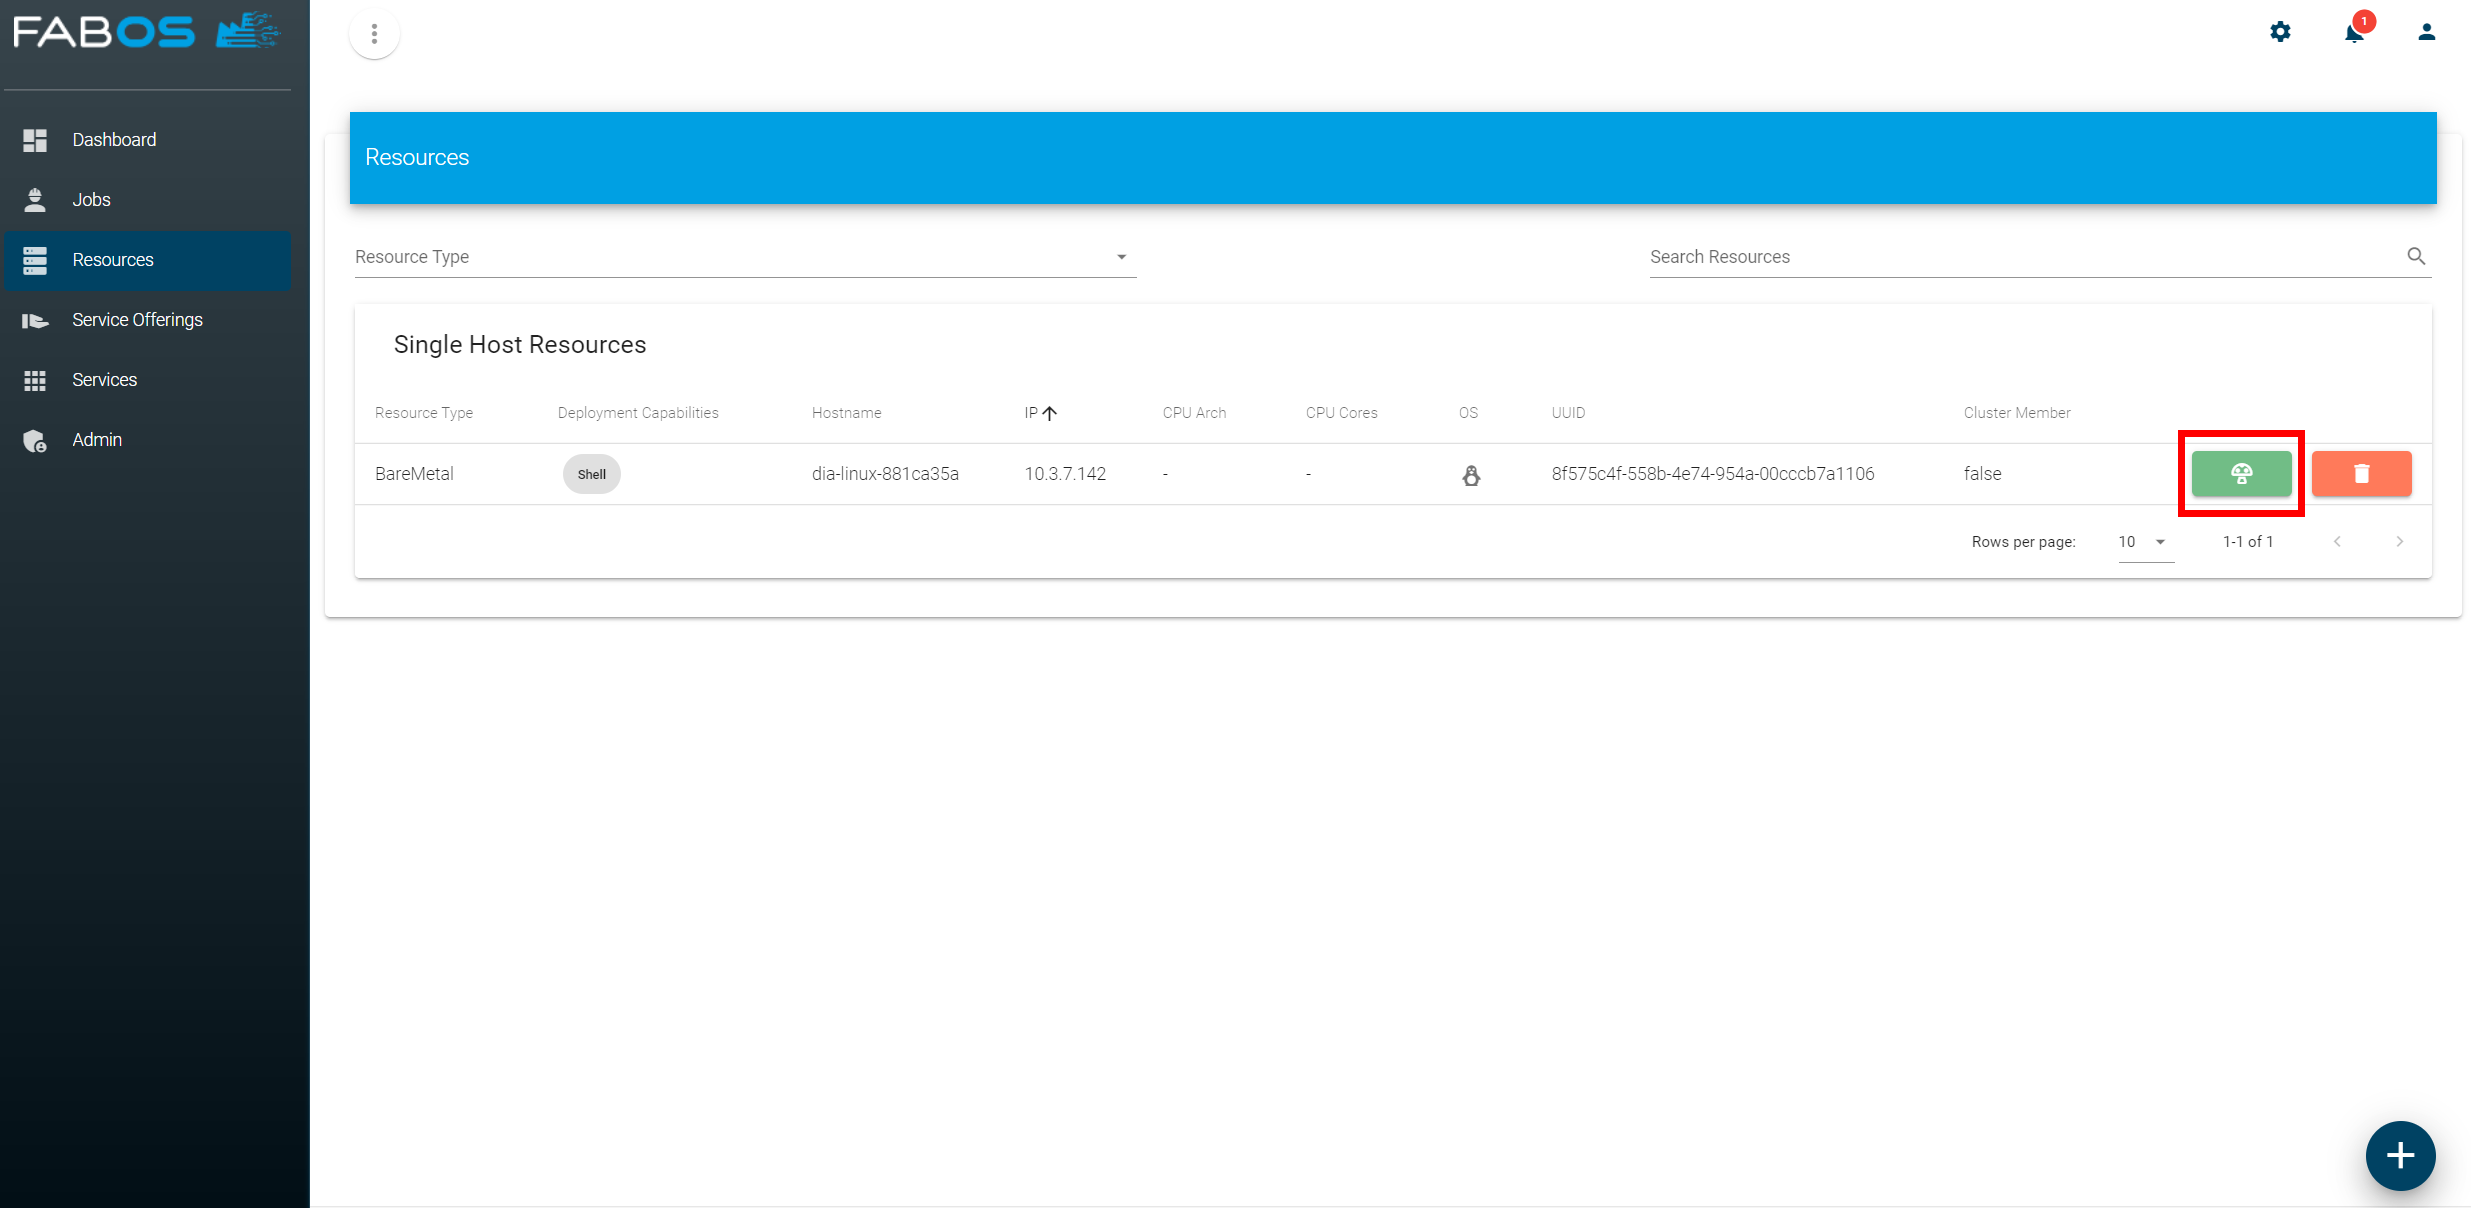
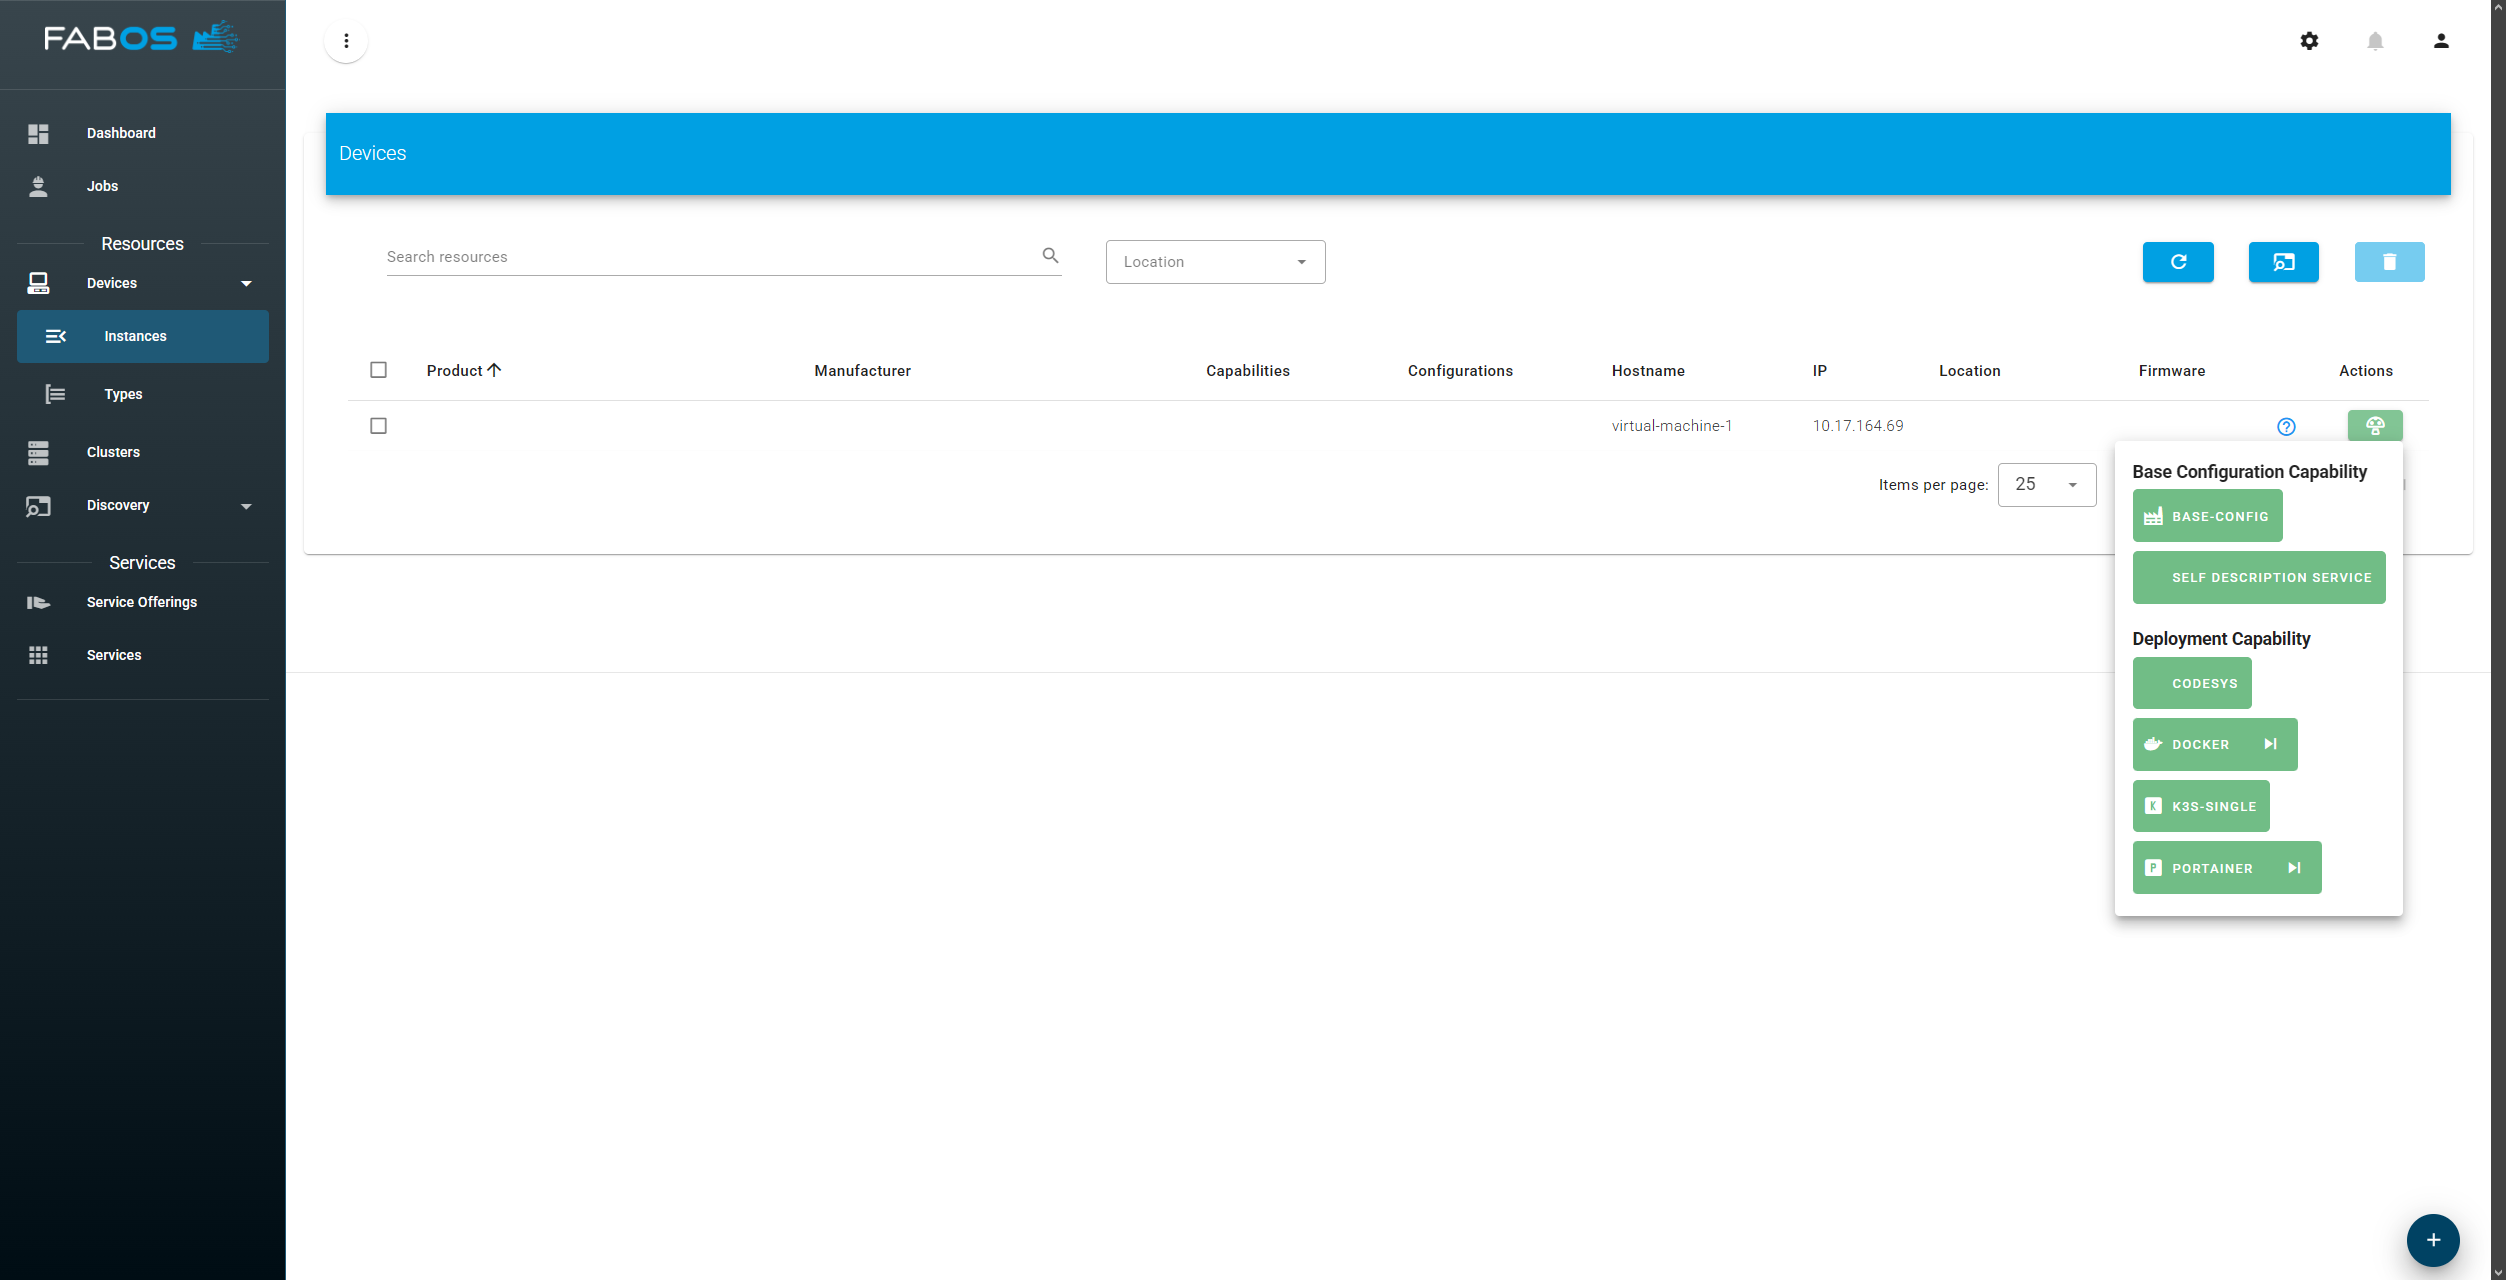
Update first-steps/step2

diff --git a/docs/docs/getting-started/first-steps/step2-install-deployment-capability.md b/docs/docs/getting-started/first-steps/step2-install-deployment-capability.md
@@ -4,12 +4,17 @@ permalink: /docs/getting-started/first-steps/step2/
 
 # Step 2: Install Docker deployment capability
 
-Now that we have added a device, a deployment capability to deploy services needs to be installed. Click on the green button on the right side of your resource and select `DOCKER`:
-![](/img/figures/first-steps/first-steps-step2-install-deployment-capability.png)
+Now that we have added a device, a deployment capability to deploy services needs to be installed. Click on the green 
+button on the right side of your resource and select `DOCKER`:
+![first-steps-step2-install-deployment-capability](/img/figures/first-steps/first-steps-step2-install-deployment-capability.png)
 
 
-The installation of the deployment capability on your device is triggered and will take some time. You can see the coressponding job in the `Jobs` section:
-![](/img/figures/first-steps/first-steps-step2-install-deployment-capability-jobs.png)
+The installation of the deployment capability on your device is triggered and will take some time. 
 
-After the installation job was successfull you should see the `Docker` in the Deployment Capabilites coloumn of your device:
-![](/img/figures/first-steps/first-steps-step2-install-deployment-capability-result.png)
+![first-steps-step2-install-deployment-capability-info](/img/figures/first-steps/first-steps-step2-install-deployment-capability-info.png)
+
+You can see the coressponding job in the `Jobs` section:
+![first-steps-step2-install-deployment-capability-jobs](/img/figures/first-steps/first-steps-step2-install-deployment-capability-jobs.png)
+
+After the installation job was successful you should see `Docker` in the Capabilities column of your device:
+![first-steps-step2-install-deployment-capability-result](/img/figures/first-steps/first-steps-step2-install-deployment-capability-result.png)
